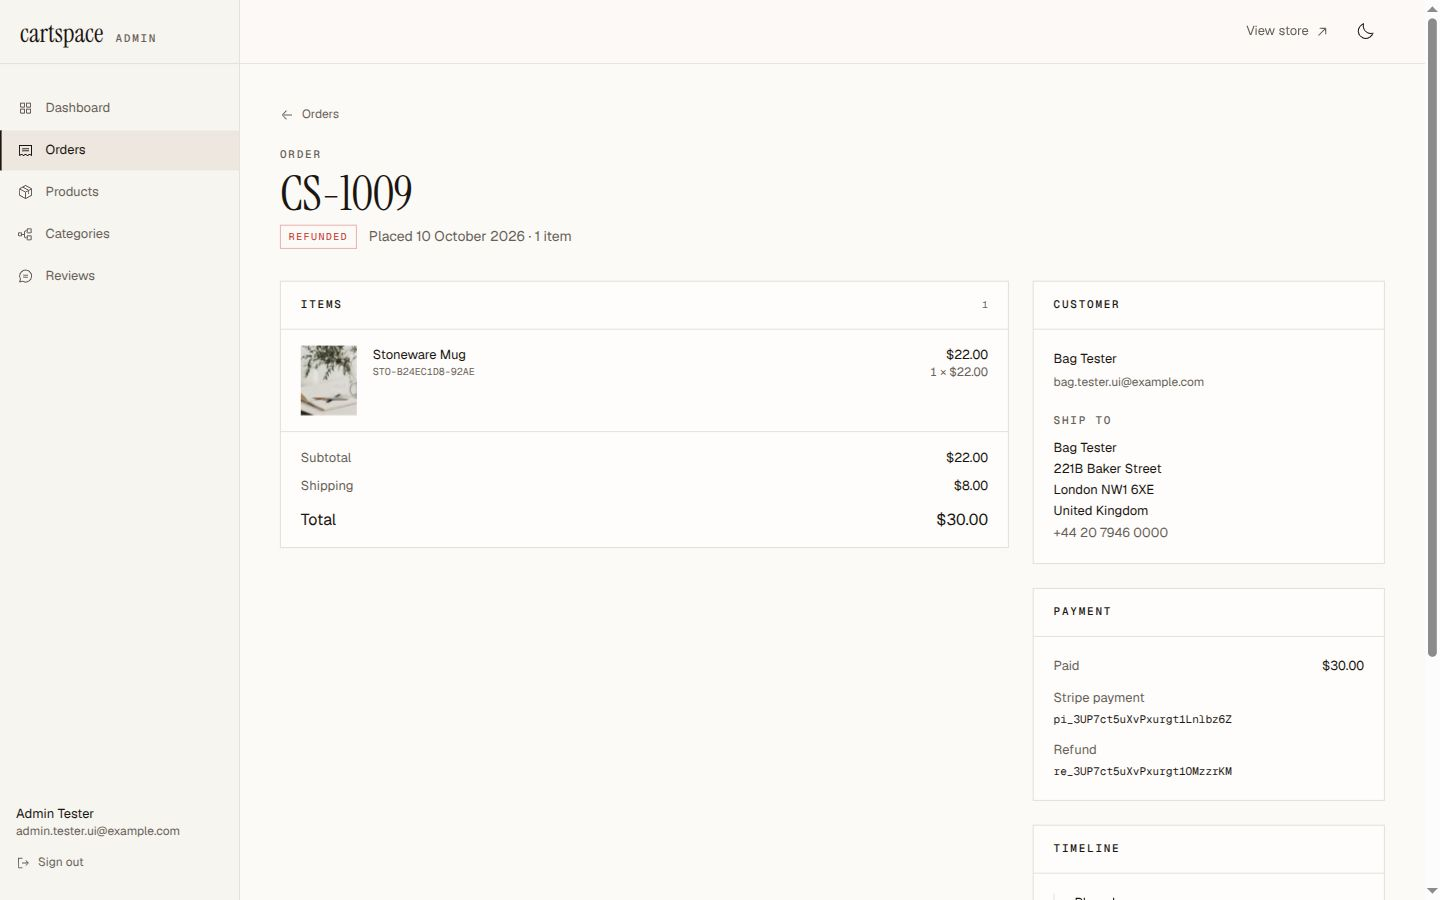
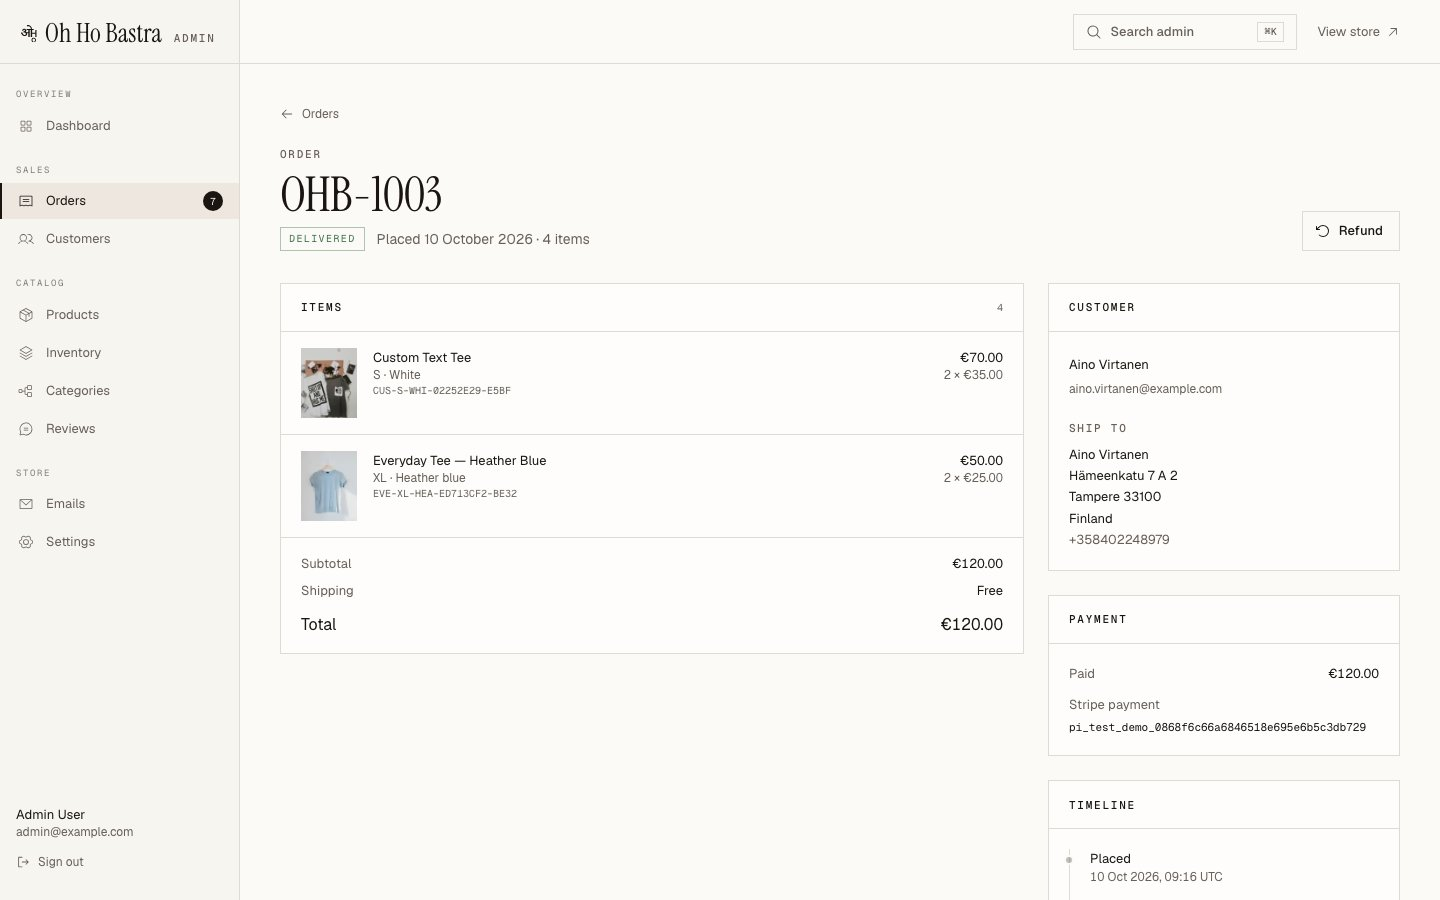
Update README with detailed shop information, including product catalog, pricing, and shipping details. Revise prerequisites for Go version compatibility and clarify CI process. Add credits for photo sources and clarify order number format. Update screenshots to reflect recent changes.

diff --git a/README.md b/README.md
@@ -5,7 +5,9 @@
 
 # Oh Ho Bastra
 
-a full-stack e-commerce store: a go/gin api and a next.js storefront with an admin panel, stripe checkout, reviews, wishlists and search, held together by one typed api contract.
+the online shop for oh ho bastra: heavyweight cotton tees in a few colours, plus custom prints and text printed to order. prices are in euros and checkout ships to finland first.
+
+under the hood it's a full-stack store: a go/gin api and a next.js storefront with an admin panel, stripe checkout, reviews, wishlists and search, held together by one typed api contract. it started from the [cartspace](https://github.com/SuprimKhatri77/cartspace) boilerplate.
 
 ![landing page](docs/screenshots/home.jpg)
 
@@ -17,6 +19,13 @@ a full-stack e-commerce store: a go/gin api and a next.js storefront with an adm
 | -------------------------------------------------- | ------------------------------------------------ |
 | ![admin dashboard](docs/screenshots/admin.jpg)     | ![admin order](docs/screenshots/admin-order.jpg) |
 
+## the shop
+
+- **catalog**: ten tees in two categories, **tees** (short sleeve, long sleeve) and **custom** (custom text, custom print), sized s to xxl, €25–45. `bun run db:seed:catalog` creates them; their photos are in `scripts/catalog-images`.
+- **money**: euros (`apps/web/lib/money.ts`, `apps/api/internal/constants/shipping.go`). shipping is €4.90 flat and free from €60; the web shows the same rule from `apps/web/lib/shipping.ts`, so change both together.
+- **orders** are numbered `OHB-1001`, `OHB-1002`…
+- **brand**: the ओho mark is `apps/web/components/brand/logo-mark.tsx` (also in `docs/brand`), with the favicon and app icons in `apps/web/app` and `apps/web/public/brand`. store copy and editorial photos live in `apps/web/lib/site.ts` and `apps/web/public/editorial`.
+
 ## features
 
 **storefront**
@@ -25,7 +34,7 @@ a full-stack e-commerce store: a go/gin api and a next.js storefront with an adm
 - full-text product search (⌘K dialog with live results, and `/shop?q=`)
 - product pages with a gallery, colour swatches and size pills (sold-out variants struck through, `?variant=` links), offers with expiry
 - a bag drawer and `/cart` with live prices and quantities capped to stock
-- stripe hosted checkout with saved addresses, stock reserved while you pay, flat-rate shipping that's free over a threshold
+- stripe hosted checkout with saved addresses, stock reserved while you pay, flat-rate shipping that's free over a threshold (€4.90, free from €60)
 - order history with a status timeline, tracking number and refund date
 - order emails: confirmed, shipped (with tracking) and refunded, html with a plain-text part
 - wishlist, and reviews from verified buyers (a rating summary with a distribution, one review per product)
@@ -45,10 +54,10 @@ a full-stack e-commerce store: a go/gin api and a next.js storefront with an adm
 
 | layer        | what                                                                                                       |
 | ------------ | ---------------------------------------------------------------------------------------------------------- |
-| api          | go 1.24, gin, postgres 17 with pgx, sqlc, golang-migrate, stripe-go, cloudinary, go-mail, scalar api docs |
+| api          | go 1.26, gin, postgres 17 with pgx, sqlc, golang-migrate, stripe-go, cloudinary, go-mail, scalar api docs |
 | web          | next.js 16 (app router, `proxy.ts`), react 19, tanstack query 5, tailwind v4, shadcn (base ui), motion    |
 | contract     | zod schemas → openapi 3.1 (zod-to-openapi) → typed clients (hey-api), checked both ways in ci              |
-| tooling      | turborepo + bun workspaces, docker compose, husky + commitlint + lint-staged, golangci-lint, github actions |
+| tooling      | turborepo + bun workspaces, docker compose, husky + commitlint + lint-staged, golangci-lint                |
 
 ## architecture
 
@@ -147,7 +156,7 @@ sequenceDiagram
 
 ## getting started
 
-**prerequisites**: [bun](https://bun.sh) 1.3, [go](https://go.dev) 1.24, docker. for work outside docker also [sqlc](https://sqlc.dev) 1.30 and [golangci-lint](https://golangci-lint.run) v2. for payments, the [stripe cli](https://docs.stripe.com/stripe-cli).
+**prerequisites**: [bun](https://bun.sh) 1.3, [go](https://go.dev) 1.26 (the dev container's version; one validator test fails on go 1.27, so with a newer go installed run go commands and pushes with `GOTOOLCHAIN=go1.26.1`), docker. for work outside docker also [sqlc](https://sqlc.dev) 1.30 and [golangci-lint](https://golangci-lint.run) v2. for payments, the [stripe cli](https://docs.stripe.com/stripe-cli).
 
 ```sh
 bun install
@@ -252,7 +261,7 @@ a theme is a `[data-theme="…"]` block of tokens in `apps/web/app/globals.css`:
 
 - **go**: unit and handler tests, including the order transition table, session rotation, validators, middleware and the contract test (`bun run test:go`).
 - **web**: bun tests for the proxy guards, the refresh interceptor, filter and url parsing, the image loader, cart and order helpers (`bun run test:web`).
-- **ci** (github actions, `.github/workflows/ci.yml`) runs the same steps as `bun run ci` on every pull request and on `main`. dependabot keeps the bun, go and actions dependencies current.
+- **ci**: there's no hosted ci yet. `bun run ci` runs every check locally (drift checks, types, lint, tests, build), and the pre-push hook runs most of them.
 
 ## deploy
 
@@ -289,5 +298,12 @@ if order emails time out on render, its free instances may be blocking the stand
 
 - guest carts (the bag needs an account)
 - partial refunds and returns
-- emails beyond orders (password reset, verifying the address)
+- emails beyond orders and password reset (for example verifying the address)
+- finnish payment methods (paytrail, mobilepay): checkout is stripe only
 - redis or a job queue (expired checkouts, old sessions and the email outbox are handled by loops inside the api process)
+
+## credits
+
+- built on [cartspace](https://github.com/SuprimKhatri77/cartspace) by suprim khatri
+- product and editorial photos from [unsplash](https://unsplash.com), under the unsplash license; photographers are listed in `scripts/catalog-images/CREDITS.md` and `apps/web/public/editorial/CREDITS.md`
+- the screenshots show demo data: the seeded catalog, with made-up customers and orders
